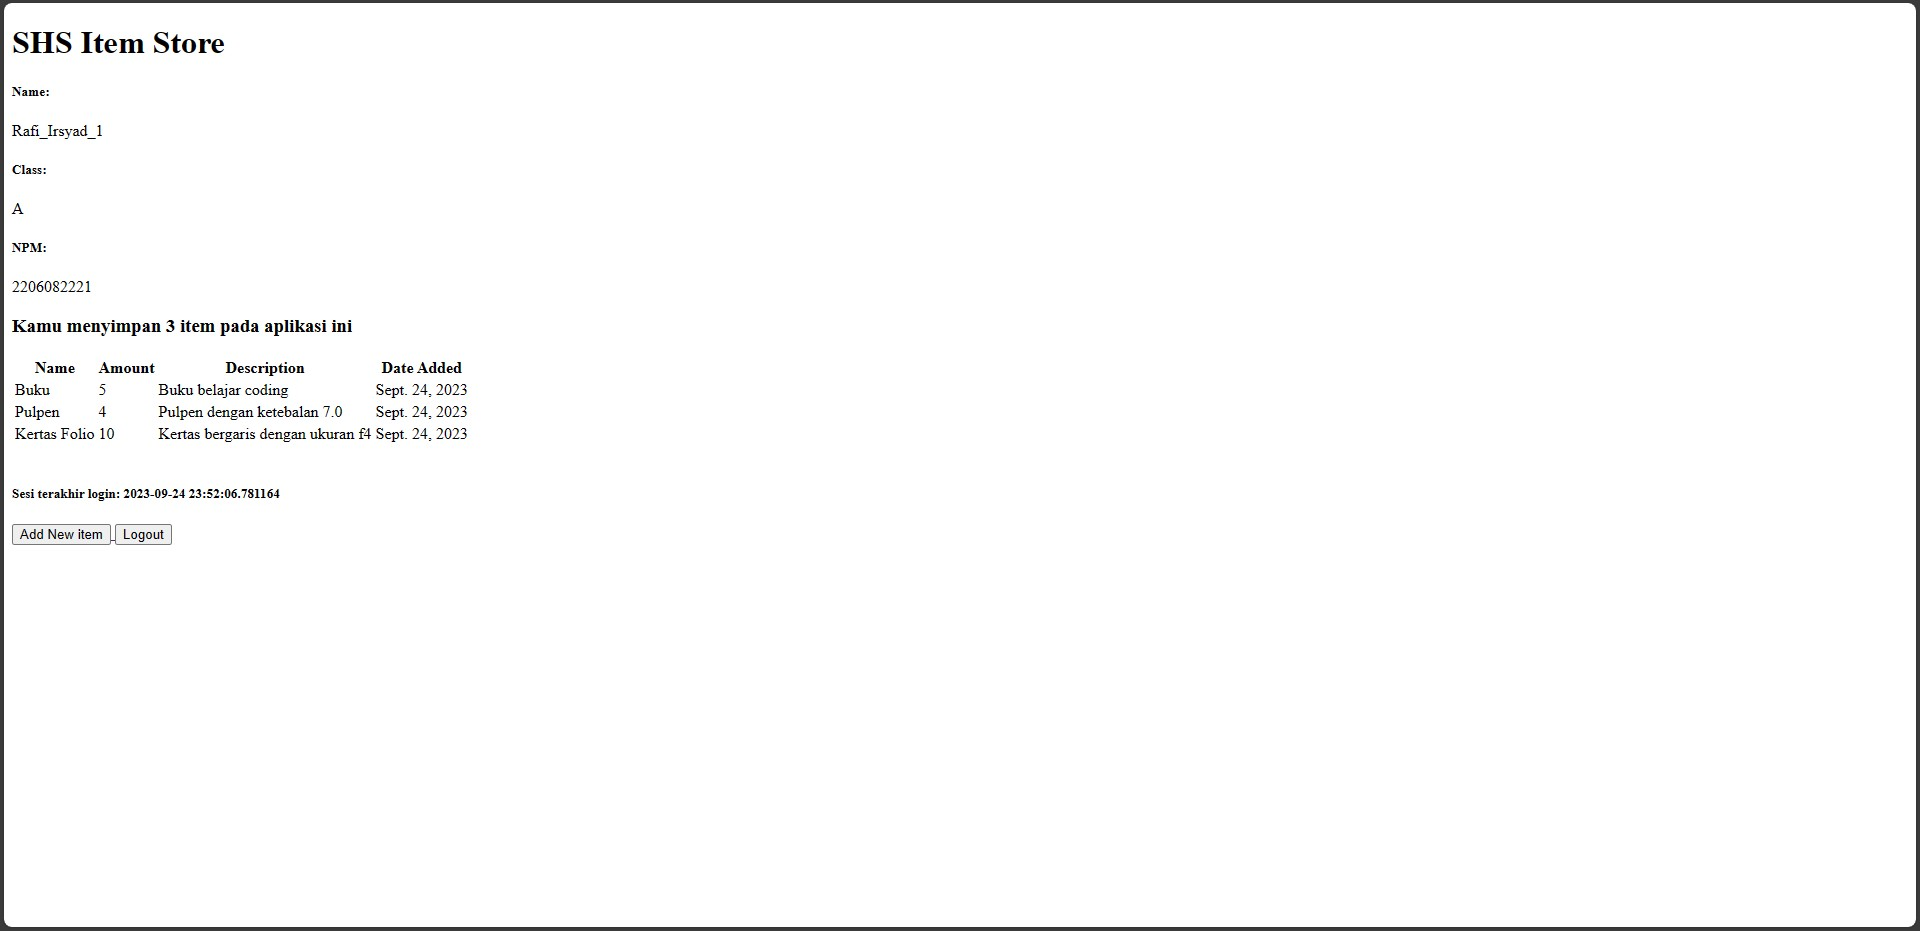
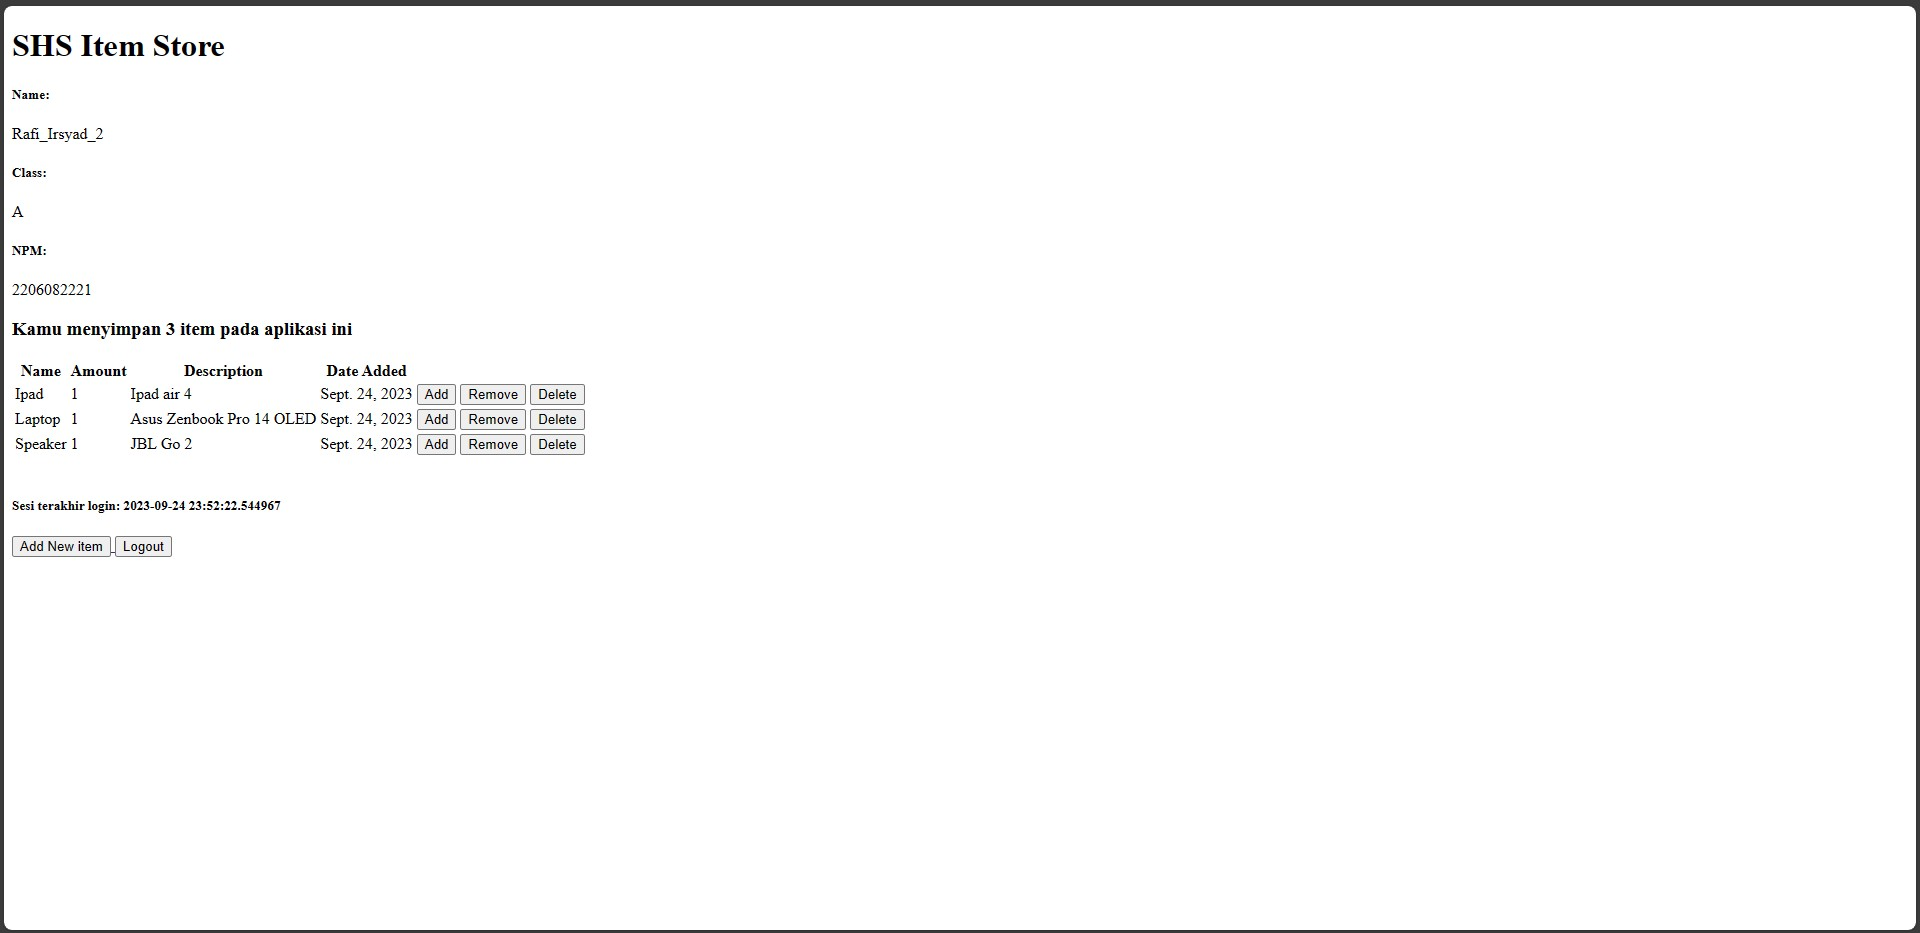
Tugas 4 Selesai + Bonus

diff --git a/main/templates/main.html b/main/templates/main.html
@@ -31,6 +31,27 @@
                 <td>{{item.amount}}</td>
                 <td>{{item.description}}</td>
                 <td>{{item.date_added}}</td>
+                <td>
+                    <a href="{% url 'main:increase_amount' item.id %}">
+                        <button>
+                            Add
+                        </button>
+                    </a>
+                </td>
+                <td>
+                    <a href="{% url 'main:decrease_amount' item.id %}">
+                        <button>
+                            Remove
+                        </button>
+                    </a>
+                </td>
+                <td>
+                    <a href="{% url 'main:delete_item' item.id %}">
+                        <button>
+                            Delete
+                        </button>
+                    </a>
+                </td>
             </tr>
         {% endfor %}
     </table>

diff --git a/main/views.py b/main/views.py
@@ -14,6 +14,7 @@ from django.contrib.auth.decorators import login_required
 import datetime
 from django.http import HttpResponseRedirect
 from django.urls import reverse
+from django.shortcuts import get_object_or_404
 
 # Create your views here.
 @login_required(login_url='/login')
@@ -43,6 +44,31 @@ def create_item(request):
 
     context = {'form': form}
     return render(request, "create_item.html", context)
+
+def increase_amount(request, item_id):
+    item = get_object_or_404(Item, pk=item_id)
+    item.amount += 1
+    item.save()
+    return HttpResponseRedirect(reverse('main:show_main'))
+
+def decrease_amount(request, item_id):
+    item = get_object_or_404(Item, pk=item_id)
+    
+    # Mengurangi jumlah stok sebanyak satu jika stok lebih besar dari 0
+    if item.amount > 0:
+        item.amount -= 1
+        item.save()
+        
+    # Jika jumlah stok mencapai 0, hapus item dari inventori
+    if item.amount == 0:
+        item.delete()
+    
+    return HttpResponseRedirect(reverse('main:show_main'))
+
+def delete_item(request, item_id):
+    item = get_object_or_404(Item, pk=item_id)
+    item.delete()
+    return HttpResponseRedirect(reverse('main:show_main'))
 
 def register(request):
     form = UserCreationForm()

diff --git a/main/urls.py b/main/urls.py
@@ -1,9 +1,8 @@
 from django.urls import path
 from main.views import show_main
 from main.views import show_main, create_item, show_xml, show_json, show_xml_by_id, show_json_by_id 
-from main.views import register
-from main.views import login_user
-from main.views import logout_user
+from main.views import register, login_user, logout_user
+from main.views import increase_amount, decrease_amount, delete_item
 
 app_name = 'main'
 
@@ -17,4 +16,7 @@ urlpatterns = [
     path('register/', register, name='register'), 
     path('login/', login_user, name='login'),
     path('logout/', logout_user, name='logout'),
+    path('increase_amount/<int:item_id>/', increase_amount, name='increase_amount'),
+    path('decrease_amount/<int:item_id>/', decrease_amount, name='decrease_amount'),
+    path('delete-item/<int:item_id>/', delete_item, name='delete_item'),
 ]
